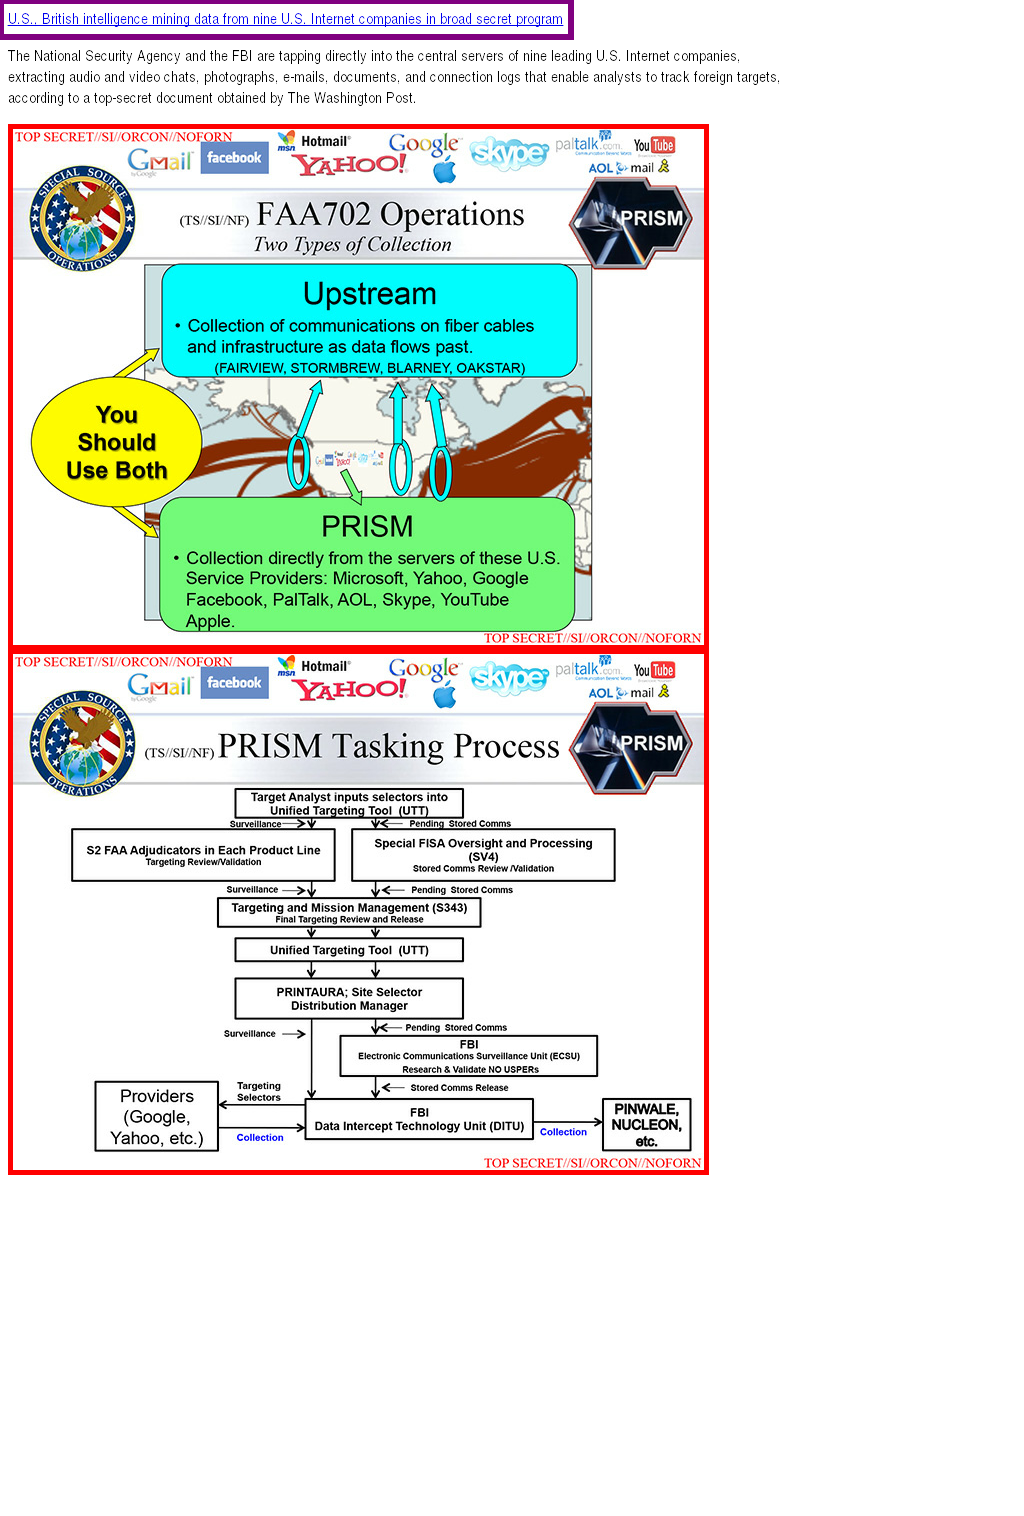
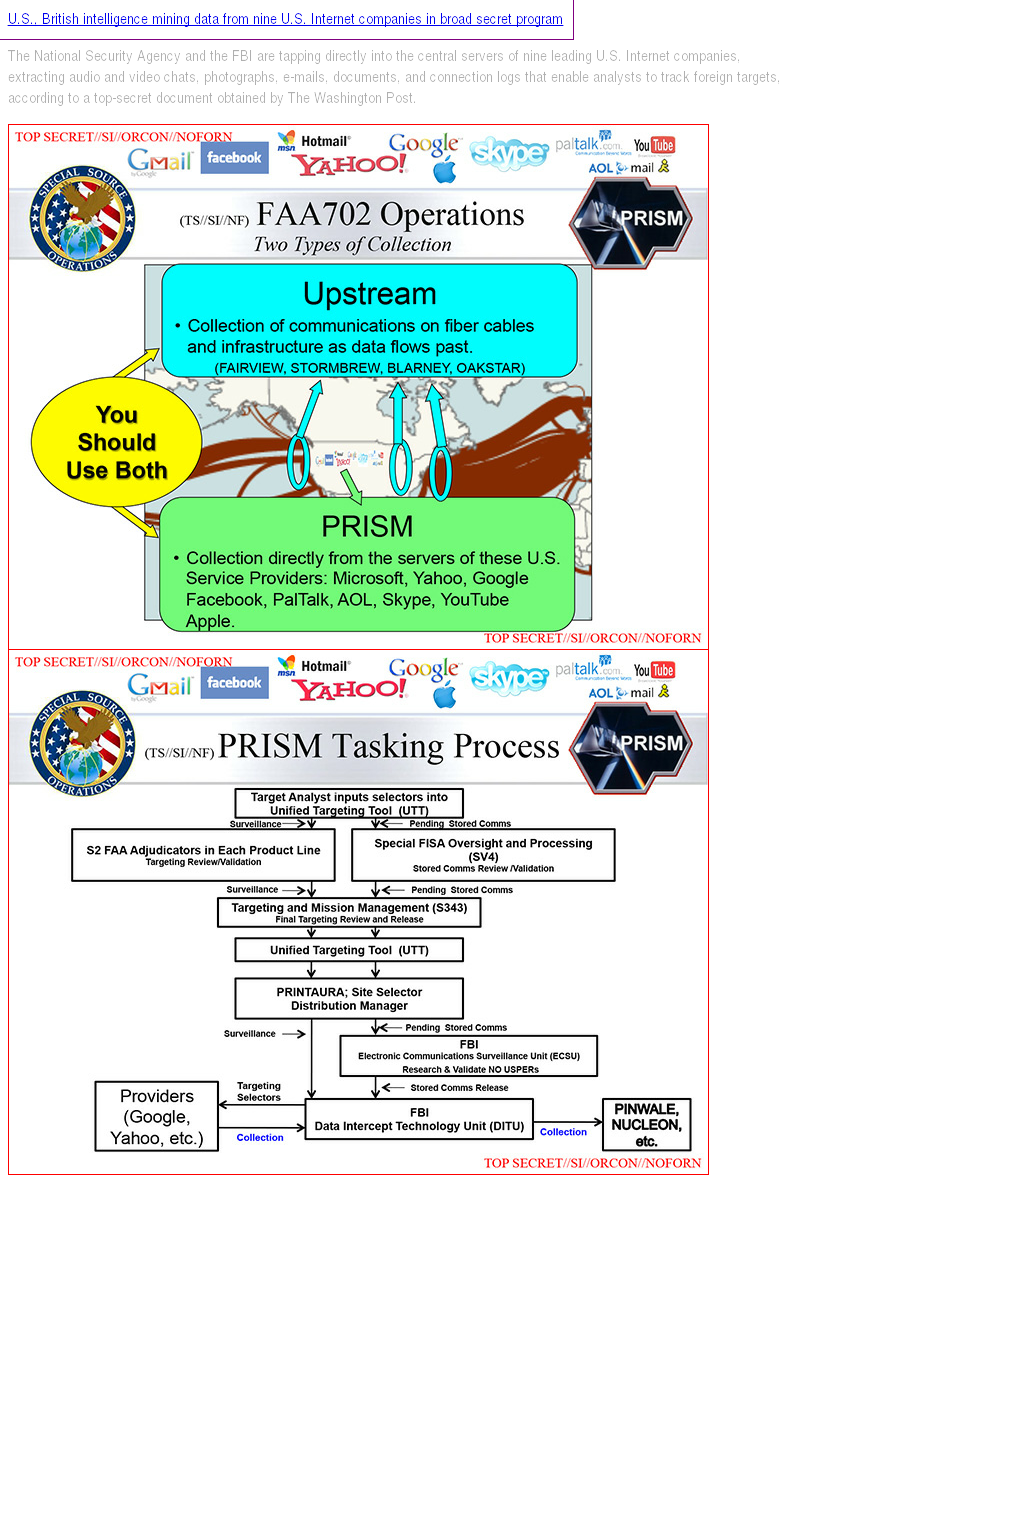
Transparent mask layer between the pasted screenshot and the boxes that we want to highlight that makes everything else fade back. For #63.

Changed region(s): [[0.0, 0.0, 0.7188, 0.7751]]

diff --git a/storytracker/analysis.py b/storytracker/analysis.py
@@ -589,8 +589,8 @@ class ArchivedURL(UnicodeMixin):
         )
         im.paste(sshot, sshot)
 
-        # Draw borders around the links and images
-        draw = PILImageDraw.Draw(im)
+        # Cut out the boxes we'll want to highlight in the final image
+        box_list = []
         for a in self.hyperlinks:
             if a.is_story:
                 fill = "purple"
@@ -604,7 +604,12 @@ class ArchivedURL(UnicodeMixin):
                     box[1][0] - (stroke_width - i),
                     box[1][1] - (stroke_width - i)
                 )
-                draw.rectangle(stroke, fill=None, outline=fill)
+                box_list.append(dict(
+                    region = im.crop(stroke),
+                    stroke=stroke,
+                    fill=None,
+                    outline=fill
+                ))
         for i in self.images:
             box = i.bounding_box
             for i in range(1, stroke_width+1):
@@ -614,7 +619,33 @@ class ArchivedURL(UnicodeMixin):
                     box[1][0] - (stroke_width - i),
                     box[1][1] - (stroke_width - i)
                 )
-                draw.rectangle(stroke, fill=None, outline="red")
+                box_list.append(dict(
+                    region = im.crop(stroke),
+                    stroke=stroke,
+                    fill=None,
+                    outline="red"
+                ))
+
+        # Draw a transparent overlay and put it on the page
+        overlay = PILImage.new(
+            "RGBA",
+            (sshot_width, sshot_height),
+            (255, 255, 255, 150)
+        )
+        
+        im = PILImage.composite(overlay, im, overlay)
+
+        # Now paste the story boxes back on top of the overlay
+        draw = PILImageDraw.Draw(im)
+        for box in box_list:
+            im.paste(box['region'], box['stroke'])
+            draw.rectangle(
+                box['stroke'],
+                fill=box['fill'],
+                outline=box['outline']
+            )
+
+        # Save the image and pass out the path
         im.save(overlay_path, 'PNG')
         self._screenshot.seek(0)
         return overlay_path
